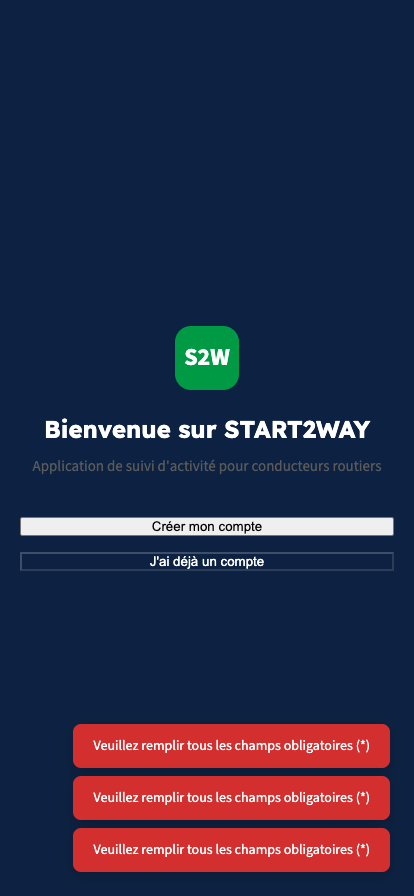
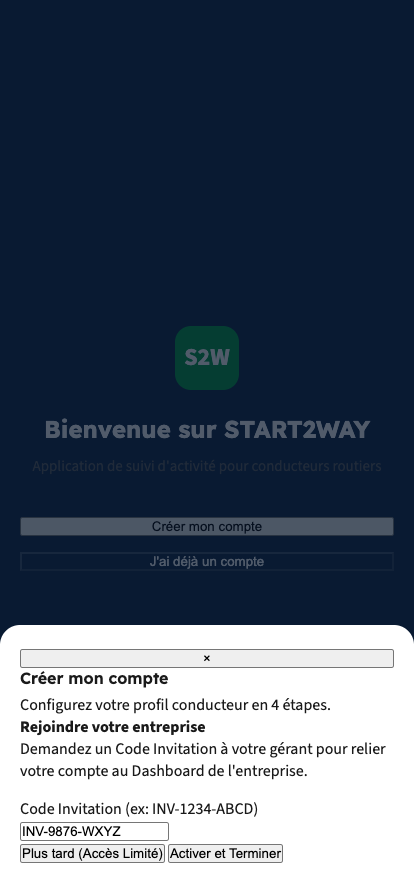
docs: add verified onboarding screenshots and fix modal css class

diff --git a/app-mobile.html b/app-mobile.html
@@ -1261,7 +1261,7 @@
 
     <!-- ==================== SIGNUP MODAL & STEPPER ==================== -->
     <div class="modal-overlay" id="signup-modal">
-      <div class="modal-content" style="max-height:85vh; overflow-y:auto; display:flex; flex-direction:column;">
+      <div class="modal-sheet" style="max-height:85vh; overflow-y:auto; display:flex; flex-direction:column;">
         <button class="modal-close" onclick="closeSignupModal()">×</button>
         <h3 class="modal-title">Créer mon compte</h3>
         <p class="modal-desc">Configurez votre profil conducteur en 4 étapes.</p>
@@ -1376,7 +1376,7 @@
 
     <!-- ==================== LOGIN MODAL ==================== -->
     <div class="modal-overlay" id="login-modal">
-      <div class="modal-content">
+      <div class="modal-sheet">
         <button class="modal-close" onclick="closeLoginModal()">×</button>
         <h3 class="modal-title">Connexion</h3>
         <p class="modal-desc">Connectez-vous à votre compte START2WAY.</p>
